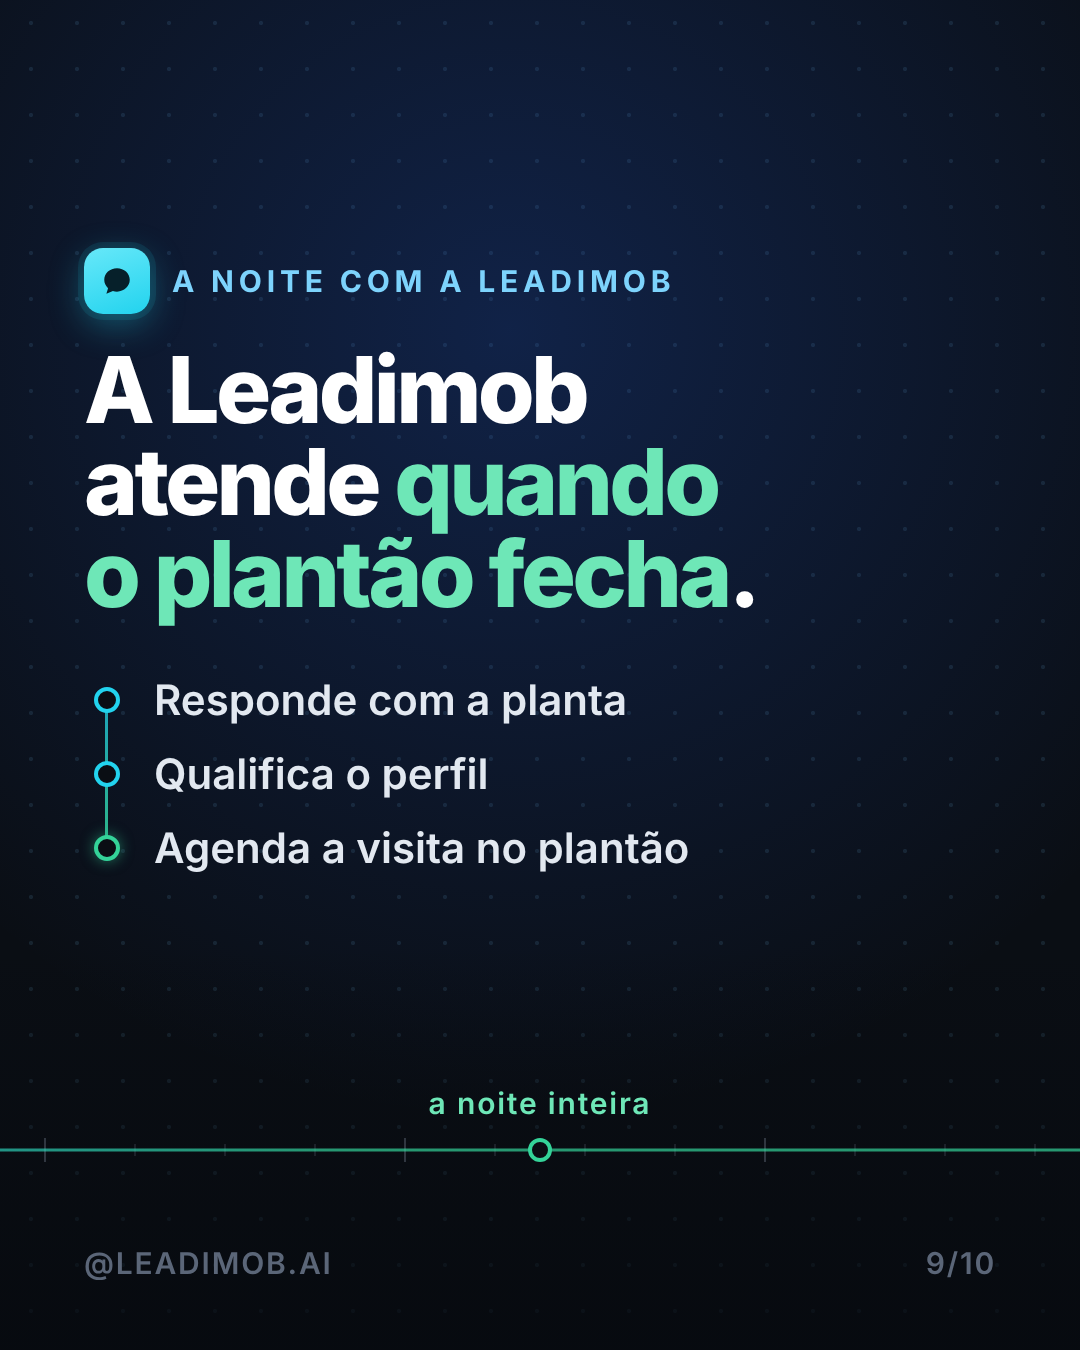
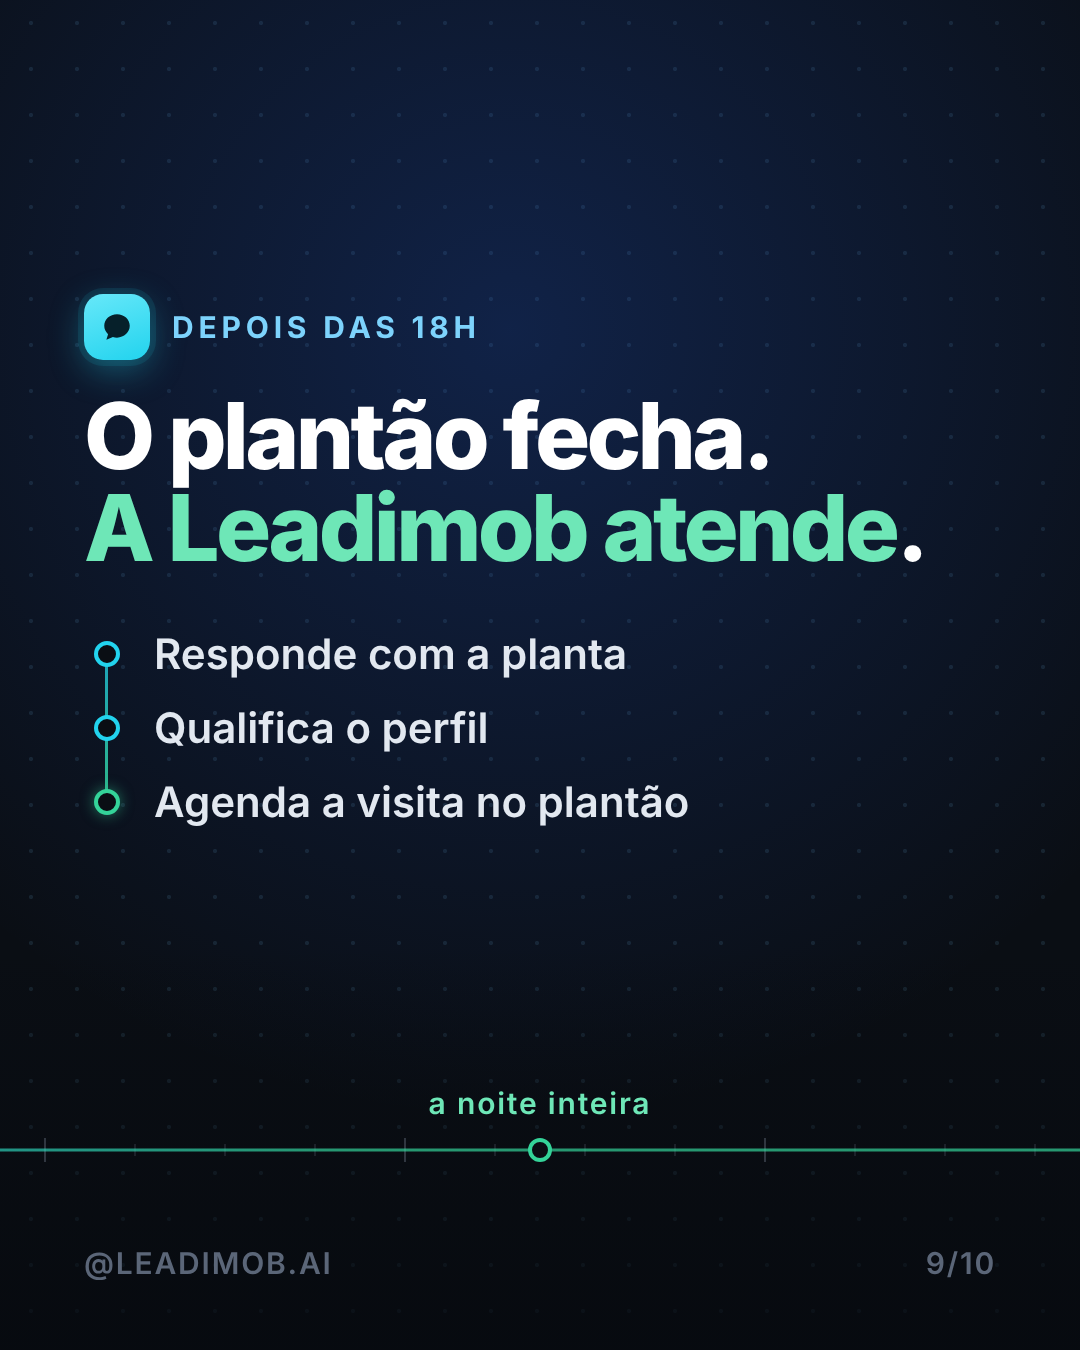
13/10: carrossel rodada 4 (acabamento), em crítica do corte final
Claude-Session: https://claude.ai/code/session_01NWcxMy89PTCVaJ3sBxJeMq

Changed region(s): [[0.0611, 0.1556, 0.8556, 0.6533]]

diff --git a/instagram/2026-10-13/src/c1-index.html b/instagram/2026-10-13/src/c1-index.html
@@ -121,12 +121,11 @@ body{background:#0A0E14;width:10800px;height:1350px;overflow:hidden;font-family:
 
 <!-- 3 prática 1: origem -->
 <div class="sl" style="left:2160px">
- <div class="ghost" style="top:185px;font-size:420px">01</div>
  <div class="ttl"><div class="num">1</div><div class="kick">De onde ele veio</div></div>
  <div class="h2">Saiba de qual <span class="hl">lançamento</span> é o lead.</div>
  <div class="p">A resposta certa depende do anúncio.</div>
  <div class="card art" style="padding:34px 40px 12px">
-  <div class="row" style="margin-bottom:26px"><div style="width:72px;height:72px;border-radius:50%;background:linear-gradient(160deg,#3B4A54,#26323A);display:flex;align-items:center;justify-content:center;font:700 32px/1 IN;color:#C9D2E0;flex:none">M</div><div style="font:700 42px/1 IN">Marina</div><span class="chip nt" style="margin-left:auto">Lead novo</span></div>
+  <div class="row" style="margin-bottom:26px"><div style="width:72px;height:72px;border-radius:50%;background:linear-gradient(160deg,#3B4A54,#26323A);display:flex;align-items:center;justify-content:center;font:700 32px/1 IN;color:#C9D2E0;flex:none">M</div><div style="font:700 42px/1 IN">Marina</div></div>
   <div class="kv"><span class="k">Origem</span><b style="color:#A5F3FC">Anúncio · Vista Parque</b></div>
   <div class="kv"><span class="k">Pediu</span><b>Unidade de 2 quartos</b></div>
  </div>
@@ -160,14 +159,13 @@ body{background:#0A0E14;width:10800px;height:1350px;overflow:hidden;font-family:
    <div class="bt" style="padding-right:14px;font-size:30px">22:41 <svg class="tk" viewBox="0 0 34 22"><path d="M2 12l6 6L20 4M14 18l12-14" stroke="#53BDEB" stroke-width="3" fill="none" stroke-linecap="round" stroke-linejoin="round"/></svg></div>
   </div>
  </div>
- <div class="ttl" style="margin-top:50px"><div class="num">2</div><div class="kick">Fora do horário</div></div>
+ <div class="ttl" style="margin-top:50px"><div class="num">2</div><div class="kick">Resposta</div></div>
  <div class="h2">Responda com a <span class="hl">planta do catálogo</span>.</div>
  <div class="p">Informação real, na hora da dúvida.</div>
  <div class="foot"><span>@LEADIMOB.AI</span><span>4/10</span></div></div>
 
 <!-- 5 prática 3: qualificação -->
 <div class="sl" style="left:4320px">
- <div class="ghost" style="top:240px">03</div>
  <div class="ttl"><div class="num">3</div><div class="kick">Qualificação</div></div>
  <div class="h2">Entenda o <span class="hl">perfil</span> na conversa.</div>
  <div class="p">O corretor chega sabendo o que importa.</div>
@@ -197,7 +195,6 @@ body{background:#0A0E14;width:10800px;height:1350px;overflow:hidden;font-family:
 
 <!-- 7 prática 5: resumo para o corretor (layout invertido) -->
 <div class="sl" style="left:6480px">
- <div class="ghost" style="top:525px">05</div>
  <div class="push">
   <div class="row" style="gap:18px"><div class="app" style="background:linear-gradient(160deg,#67E8F9,#22D3EE)"><svg width="32" height="32" viewBox="0 0 24 24"><path d="M12 3c5 0 9 3.600 9 8.200S17 19.500 12 19.500c-1 0-2-.15-2.900-.42L4.500 21l1.200-3.900C4 15.600 3 13.500 3 11.200 3 6.600 7 3 12 3z" fill="#06202A"/></svg></div><span style="font:600 30px/1 IN;color:#9AA5B5;letter-spacing:.06em">LEADIMOB</span><span style="margin-left:auto;font:600 30px/1 IN;color:#9AA5B5">08:50</span></div>
   <div style="font:700 42px/1.2 IN;margin-top:24px">Visita sábado, 11h · Marina</div>
@@ -210,22 +207,21 @@ body{background:#0A0E14;width:10800px;height:1350px;overflow:hidden;font-family:
 
 <!-- 8 prática 6: quem não veio volta para o funil -->
 <div class="sl" style="left:7560px">
- <div class="ghost" style="top:262px">06</div>
  <div class="ttl"><div class="num">6</div><div class="kick">Remarcação</div></div>
  <div class="h2">Quem remarca <span class="hl">volta para a agenda</span>.</div>
  <div class="p">Ofereça uma nova data.</div>
  <div class="art">
  <div style="display:flex;gap:22px;align-items:stretch">
-  <div class="col"><div class="kc" style="opacity:.8"><b>Marina</b><span style="font-size:32px">Pediu outro dia</span></div></div>
+  <div style="flex:1"><div class="kc" style="padding:32px 34px;border-radius:26px;opacity:.8"><b>Marina</b><span style="font-size:32px">Pediu outro dia</span></div></div>
   <div style="align-self:center;flex:none"><svg width="44" height="44" viewBox="0 0 24 24"><path d="M5 12h13M13 6l6 6-6 6" stroke="#6EE7B7" stroke-width="2.6" fill="none" stroke-linecap="round" stroke-linejoin="round"/></svg></div>
-  <div class="col" style="border-color:rgba(52,211,153,.35)"><div class="kc" style="border-color:rgba(52,211,153,.5)"><b>Marina</b><span style="font-size:32px">Nova data enviada</span></div></div>
+  <div style="flex:1"><div class="kc" style="padding:32px 34px;border-radius:26px;border:2px solid rgba(52,211,153,.6);background:linear-gradient(180deg,rgba(52,211,153,.10),rgba(24,33,49,.95));box-shadow:0 0 0 6px rgba(52,211,153,.06),0 16px 34px rgba(0,0,0,.4)"><b>Marina</b><span style="font-size:32px">Nova data enviada</span></div></div>
  </div></div>
  <div class="foot"><span>@LEADIMOB.AI</span><span>8/10</span></div></div>
 
 <!-- 9 Leadimob: a noite atendida -->
 <div class="sl" style="left:8640px">
- <div class="ttl"><div class="num"><svg width="34" height="34" viewBox="0 0 24 24"><path d="M12 3c5 0 9 3.600 9 8.200S17 19.500 12 19.500c-1 0-2-.15-2.900-.42L4.500 21l1.200-3.900C4 15.600 3 13.500 3 11.200 3 6.600 7 3 12 3z" fill="#06202A"/></svg></div><div class="kick">A noite com a Leadimob</div></div>
- <div class="h2">A Leadimob atende <span style="color:#6EE7B7">quando o plantão fecha</span>.</div>
+ <div class="ttl"><div class="num"><svg width="34" height="34" viewBox="0 0 24 24"><path d="M12 3c5 0 9 3.600 9 8.200S17 19.500 12 19.500c-1 0-2-.15-2.900-.42L4.500 21l1.200-3.900C4 15.600 3 13.500 3 11.200 3 6.600 7 3 12 3z" fill="#06202A"/></svg></div><div class="kick">Depois das 18h</div></div>
+ <div class="h2" style="text-wrap:nowrap">O plantão fecha.<br><span style="color:#6EE7B7">A Leadimob atende</span>.</div>
  <div class="art" style="position:relative;padding-left:70px">
   <div style="position:absolute;left:21px;top:21px;bottom:21px;width:3px;border-radius:2px;background:linear-gradient(180deg,rgba(34,211,238,.75),rgba(52,211,153,.85))"></div>
   <div class="ev2"><i class="nd"></i>Responde com a planta</div>
@@ -275,9 +271,9 @@ body{background:#0A0E14;width:10800px;height:1350px;overflow:hidden;font-family:
  const moon='<svg width="28" height="28" viewBox="0 0 24 24" fill="none" stroke="#C9D2E0" stroke-width="2.2" stroke-linecap="round" stroke-linejoin="round"><path d="M20 14.500A8 8 0 1 1 9.500 4a6.500 6.500 0 0 0 10.500 10.500z"/></svg>';
  dot(760,'#C9D2E0'); lab(760,'18:00','#C9D2E0',moon);
  dot(1620,'#F59E0B',9); lab(1620,'22:40','#7C8799');
- const C='#A5F3FC', mk=[[2,'lead novo'],[3,'planta enviada'],[4,'perfil'],[5,'visita marcada'],[6,'08:50 · corretor avisado']];
+ const C='#A5F3FC', mk=[[2,'lead novo'],[3,'planta enviada'],[4,'perfil'],[5,'visita marcada'],[6,'corretor avisado']];
  mk.forEach(([i,t])=>{const x=i*1080+540;dot(x,'#22D3EE');lab(x,t,C)});
- dot(7*1080+540,'#34D399'); lab(7*1080+540,'e se ela remarcar','#6EE7B7'); dot(8*1080+540,'#34D399'); lab(8*1080+540,'a noite inteira','#6EE7B7');
+ dot(7*1080+540,'#34D399'); lab(7*1080+540,'nova data','#6EE7B7'); dot(8*1080+540,'#34D399'); lab(8*1080+540,'a noite inteira','#6EE7B7');
  el('circle',{cx:10260,cy:Y,r:13,fill:'#34D399'}); lab(10260,'09:00','#E2E8F0','<svg width="28" height="28" viewBox="0 0 24 24" fill="none" stroke="#E2E8F0" stroke-width="2.2" stroke-linecap="round"><circle cx="12" cy="12" r="4"/><path d="M12 2v2M12 20v2M4.900 4.900l1.400 1.400M17.700 17.700l1.400 1.400M2 12h2M20 12h2M4.900 19.100l1.400-1.400M17.700 6.300l1.400-1.400"/></svg>');
 })();
 window.ready=document.fonts.ready.then(()=>Promise.all(['400 20px IN','500 20px IN','600 20px IN','700 20px IN','800 20px IN','900 20px IN'].map(f=>document.fonts.load(f)))).then(()=>Promise.all([...document.images].map(i=>i.decode().catch(()=>0)))).then(()=>new Promise(r=>setTimeout(r,300)));

diff --git a/instagram/2026-10-13/carrossel/carrossel-editor.html b/instagram/2026-10-13/carrossel/carrossel-editor.html
@@ -312,7 +312,7 @@ input[type=range]{width:100%;accent-color:#6C5CE7;height:18px;cursor:pointer;}
     </div>
   </div>
 </div>
-<script id="deck-data" type="application/json">{"kit": "tech", "formato": "4:5", "paleta": {"bg": "#0A0E14", "fg": "#FFFFFF", "muted": "#8A93A3", "accent": "#22D3EE", "surface": "#141B28", "cream": "#F3F7FB"}, "handle": "@leadimob.ai", "slides": [{"tipo": "capa", "kicker": "LANÇAMENTO · SALVE ESTE POST", "titulo": "O plantão fecha. O anúncio, não.", "sub": "Como não perder o lead do lançamento que chega à noite."}, {"tipo": "conteudo", "kicker": "O PROBLEMA", "titulo": "A pergunta da noite espera até amanhã.", "sub": "O anúncio roda o dia todo. O plantão tem horário."}, {"tipo": "conteudo", "kicker": "1 · DE ONDE ELE VEIO", "titulo": "Saiba de qual lançamento é o lead.", "sub": "A resposta certa depende do anúncio."}, {"tipo": "conteudo", "kicker": "2 · FORA DO HORÁRIO", "titulo": "Responda com a planta do catálogo.", "sub": "Informação real, na hora da dúvida."}, {"tipo": "conteudo", "kicker": "3 · QUALIFICAÇÃO", "titulo": "Entenda o perfil na conversa.", "sub": "O corretor chega sabendo o que importa."}, {"tipo": "conteudo", "kicker": "4 · VISITA NO PLANTÃO", "titulo": "Ofereça o horário na mesma conversa.", "sub": "Quem escolhe o horário já se comprometeu."}, {"tipo": "conteudo", "kicker": "5 · PARA O CORRETOR", "titulo": "Passe o resumo ao plantão.", "sub": "Ninguém pergunta tudo de novo."}, {"tipo": "conteudo", "kicker": "6 · REMARCAÇÃO", "titulo": "Quem remarca volta para a agenda.", "sub": "Ofereça uma nova data."}, {"tipo": "conteudo", "kicker": "A NOITE COM A LEADIMOB", "titulo": "A Leadimob atende quando o plantão fecha.", "sub": "Na mesma noite: responde com a planta, qualifica o perfil e agenda a visita no plantão."}, {"tipo": "cta", "kicker": "SUA VEZ", "titulo": "Quem atende o seu lançamento à noite?", "sub": "Comente LANÇAMENTO e conte como o seu time faz hoje. Solicite uma demonstração — link na bio."}]}</script>
+<script id="deck-data" type="application/json">{"kit": "tech", "formato": "4:5", "paleta": {"bg": "#0A0E14", "fg": "#FFFFFF", "muted": "#8A93A3", "accent": "#22D3EE", "surface": "#141B28", "cream": "#F3F7FB"}, "handle": "@leadimob.ai", "slides": [{"tipo": "capa", "kicker": "LANÇAMENTO · SALVE ESTE POST", "titulo": "O plantão fecha. O anúncio, não.", "sub": "Como não perder o lead do lançamento que chega à noite."}, {"tipo": "conteudo", "kicker": "O PROBLEMA", "titulo": "A pergunta da noite espera até amanhã.", "sub": "O anúncio roda o dia todo. O plantão tem horário."}, {"tipo": "conteudo", "kicker": "1 · DE ONDE ELE VEIO", "titulo": "Saiba de qual lançamento é o lead.", "sub": "A resposta certa depende do anúncio."}, {"tipo": "conteudo", "kicker": "2 · RESPOSTA", "titulo": "Responda com a planta do catálogo.", "sub": "Informação real, na hora da dúvida."}, {"tipo": "conteudo", "kicker": "3 · QUALIFICAÇÃO", "titulo": "Entenda o perfil na conversa.", "sub": "O corretor chega sabendo o que importa."}, {"tipo": "conteudo", "kicker": "4 · VISITA NO PLANTÃO", "titulo": "Ofereça o horário na mesma conversa.", "sub": "Quem escolhe o horário já se comprometeu."}, {"tipo": "conteudo", "kicker": "5 · PARA O CORRETOR", "titulo": "Passe o resumo ao plantão.", "sub": "Ninguém pergunta tudo de novo."}, {"tipo": "conteudo", "kicker": "6 · REMARCAÇÃO", "titulo": "Quem remarca volta para a agenda.", "sub": "Ofereça uma nova data."}, {"tipo": "conteudo", "kicker": "DEPOIS DAS 18H", "titulo": "O plantão fecha. A Leadimob atende.", "sub": "Na mesma noite: responde com a planta, qualifica o perfil e agenda a visita no plantão."}, {"tipo": "cta", "kicker": "SUA VEZ", "titulo": "Quem atende o seu lançamento à noite?", "sub": "Comente LANÇAMENTO e conte como o seu time faz hoje. Solicite uma demonstração — link na bio."}]}</script>
 <script>
 const KITS = {
   "editorial":     {disp:"Anton", body:"Inter", mono:"JetBrains Mono", serif:"Instrument Serif",
